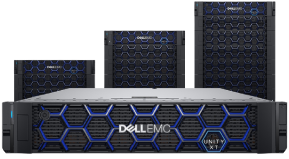
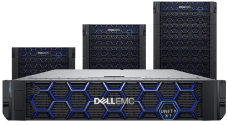
fix: fix header

diff --git a/app/css/style.min.css b/app/css/style.min.css
@@ -1,1 +1,1 @@
-html{box-sizing:border-box}*,*::after,*::before{box-sizing:inherit}ul[class],ol[class]{padding:0}body,h1,h2,h3,h4,h5,h6,p,ul,ol,li,figure,figcaption,blockquote,dl,dd{margin:0}ul[class]{list-style:none;list-style-type:none}img{max-width:100%;display:block}input,button,textarea,select{font:inherit}a{text-decoration:none}body{overflow-x:hidden}@font-face{font-family:"Roboto";src:url(../assets/fonts/Roboto-Regular.ttf)}@font-face{font-family:"Euclid Circular A";src:url(../assets/fonts/Euclid\ Circular\ A\ Regular.ttf)}header{width:100%;height:90px;display:flex;align-items:center;justify-content:space-between;background:#fff}header .logo img{padding:15px 0px 15px 15px}header .navigation{display:flex;align-items:center;justify-content:space-between;gap:30px;padding:22px 15px 22px 0px}header .navigation ul{display:flex;align-items:center;justify-content:space-between;gap:15px;list-style-type:none;padding-left:0px}header .navigation ul .navigation-item{width:46px;height:46px;background:#f9f9f9;border-radius:50%;display:flex;align-items:center;justify-content:center;position:relative}header .navigation ul .navigation-item .navigation-item__count{position:absolute;top:0;right:0;padding:5px 1px;color:#fff;font:normal 400 50px "Roboto",sans-serif;font-weight:700;font-size:12px;line-height:14px;width:16px;height:16px;background:#48a4eb;border-radius:50%;display:flex;align-items:center;justify-content:center}.menu .hamburger{display:block}.menu .hamburger.active .bar:nth-child(2){opacity:0}.menu .hamburger.active .bar:nth-child(1){-webkit-transform:translateY(8px) rotate(45deg);-ms-transform:translateY(8px) rotate(45deg);transform:translateY(8px) rotate(45deg)}.menu .hamburger.active .bar:nth-child(3){-webkit-transform:translateY(-12px) rotate(-45deg);-ms-transform:translateY(-12px) rotate(-45deg);transform:translateY(-12px) rotate(-45deg)}.menu .nav-menu{position:fixed;left:-100%;top:90px;gap:0;display:flex;align-items:start;justify-content:center;padding:56px 0px 64px 38px;-webkit-box-orient:vertical;-webkit-box-direction:normal;-ms-flex-direction:column;flex-direction:column;background:#fff;width:100%;text-align:center;-webkit-transition:.3s;-o-transition:.3s;transition:.3s;font:normal 400 50px "Roboto",sans-serif;font-size:15px;line-height:18px;text-transform:uppercase}.menu .nav-item{margin:16px 0}.menu .nav-item a{color:#292d32}.menu .nav-menu.active{left:0}.menu .bar{display:block;width:18px;height:0px;margin:8px auto;-webkit-transition:all .3s ease;-o-transition:all .3s ease;transition:all .3s ease;border:1.5px solid #292d32}.main{background-color:#f9f9f9;position:relative}.main .dell-top{position:absolute;top:18px;left:32px}.main .main-header{padding-top:80px;padding-left:15px;display:flex;align-items:start;justify-content:center;-webkit-box-orient:vertical;-webkit-box-direction:normal;-ms-flex-direction:column;flex-direction:column;gap:28px;background:#f2f2f2}.main .main-header .main-header_new{font:normal 400 50px "Roboto",sans-serif;font-weight:300;font-size:15px;line-height:133.69%;color:#838383}.main .main-header .main-header_title{font:normal 400 50px "Roboto",sans-serif;font-weight:400;font-size:30px;line-height:35px;color:#292d32}.main .main-swipe{padding:10px 25px 10px 23px;background:#f2f2f2}.main .main-profit{background-color:#f9f9f9;background:url(../assets/img/main/backstageLaptops.png) no-repeat right;height:196px}.main .main-profit .main-profit_text{padding:59px 0px 59px 15px;font:normal 400 50px "Roboto",sans-serif;font-size:20px;line-height:130%;color:#292d32;max-width:136px}.main-description{display:flex;align-items:center;justify-content:center;gap:15px}.main-description .main-description_button{display:flex;align-items:center;justify-content:center;width:45px;height:45px;background:#33a9ff;border:none;border-radius:50%}.main-description .main-description_text{font:normal 400 50px "Roboto",sans-serif;font-size:15px;line-height:30px;color:#292d32}.main-description .black{background:#292d32;width:32.18px;height:32.18px;margin:12px}.float{position:relative;top:-15px;right:20px;width:60.18px;height:60.18px;border:none;border-radius:50%;background:#fff}.catalog{display:flex;align-items:center;justify-content:center;-webkit-box-orient:vertical;-webkit-box-direction:normal;-ms-flex-direction:column;flex-direction:column;gap:20px;margin-bottom:120.1px}.catalog .catalog-header{margin:120px 25px 40px 15px;display:flex;align-items:start;justify-content:center;-webkit-box-orient:vertical;-webkit-box-direction:normal;-ms-flex-direction:column;flex-direction:column}.catalog .catalog-header .catalog-header_title{font:normal 400 50px "Roboto",sans-serif;max-width:249px;font-size:30px;line-height:35px;color:#292d32;margin-bottom:20px}.catalog .catalog-header .catalog-header_text{font:normal 400 18px "Roboto",sans-serif;font-weight:300;font-size:14.5px;line-height:150%;color:#838383;width:100%;margin-bottom:30px}.catalog .catalog-item{background:#eee;border-radius:10px;width:345px;height:auto;min-height:290.9px;display:flex;align-items:start;justify-content:space-between;-webkit-box-orient:vertical;-webkit-box-direction:normal;-ms-flex-direction:column;flex-direction:column;padding:15px 22px 20px 21px}.catalog .catalog-item .catalog-item_img{display:flex;align-items:start;justify-content:space-between;position:relative}.catalog .catalog-item .catalog-item_img .catalog-item_number{position:absolute;top:0;left:0;font:normal 400 50px "Roboto",sans-serif;font-weight:100;font-size:20px;line-height:150%;color:#292d32}.catalog .catalog-item .catalog-item_description{display:flex;align-items:start;justify-content:center;-webkit-box-orient:vertical;-webkit-box-direction:normal;-ms-flex-direction:column;flex-direction:column}.catalog .catalog-item .catalog-item_description .catalog-item_count{font:normal 400 18px "Roboto",sans-serif;font-weight:300;font-size:15px;line-height:133.69%;color:#838383}.catalog .catalog-item .catalog-item_description .catalog-item_title{font:normal 400 50px "Roboto",sans-serif;font-size:20px;line-height:150%;color:#292d32}.asc{background:#f2f2f2;padding-bottom:120px}.asc .asc-header{display:flex;align-items:start;justify-content:center;-webkit-box-orient:vertical;-webkit-box-direction:normal;-ms-flex-direction:column;flex-direction:column;padding:101px 0px 0px 15px;position:relative}.asc .asc-header .asc-button{padding-bottom:35px}.asc .asc-header .asc-header_title{font:normal 400 50px "Roboto",sans-serif;font-size:30px;line-height:50px;color:#292d32;padding-bottom:20px}.asc .asc-header .asc-header_text{font:normal 400 18px "Roboto",sans-serif;font-size:15px;line-height:150%;color:#838383;padding-bottom:30px;max-width:336px}.asc .asc-header .asc-header_laptop{position:absolute;bottom:0;right:0}.asc .asc-header .asc-header_quality{padding-top:35px;z-index:-2}.asc .asc-list{padding-top:23px;display:flex;align-items:center;justify-content:center;-webkit-box-orient:vertical;-webkit-box-direction:normal;-ms-flex-direction:column;flex-direction:column;gap:20px}.asc .asc-list .asc-item{background:#292d32;min-width:345px;max-width:345px;border-radius:10px;position:relative}.asc .asc-list .asc-item .asc-item_vector{position:absolute;top:0;right:0}.asc .asc-list .asc-item .asc-item_logo{background:#343a41;border-radius:9px;width:50px;height:50px;display:flex;align-items:center;justify-content:center;margin:15px}.asc .asc-list .asc-item .asc-item_description{padding-left:15px;padding-bottom:15px;display:flex;align-items:start;justify-content:center;-webkit-box-orient:vertical;-webkit-box-direction:normal;-ms-flex-direction:column;flex-direction:column;gap:10px}.asc .asc-list .asc-item .asc-item_description .asc-item_title{font:normal 400 18px "Euclid Circular A",sans-serif;line-height:23px;color:#fff;max-width:296px}.asc .asc-list .asc-item .asc-item_description .asc-item_text{font:normal 400 18px "Euclid Circular A",sans-serif;font-weight:300;font-size:16px;line-height:20px;color:#b7b7b7;max-width:319px;max-height:60px}.news{background:#f5f5f5;padding-bottom:120px}.news .news-header{padding:120px 25px 40px 15px;display:flex;align-items:start;justify-content:center;-webkit-box-orient:vertical;-webkit-box-direction:normal;-ms-flex-direction:column;flex-direction:column}.news .news-header .news-header_title{font:normal 400 50px "Roboto",sans-serif;font-size:30px;line-height:35px;color:#292d32;margin-bottom:20px}.news .news-header .news-header_text{font:normal 400 18px "Roboto",sans-serif;font-weight:300;font-size:14.5px;line-height:150%;color:#838383;width:100%;margin-bottom:30px}.news .news-list{display:flex;align-items:center;justify-content:center;-webkit-box-orient:vertical;-webkit-box-direction:normal;-ms-flex-direction:column;flex-direction:column;gap:20px}.news .news-list .news-item{position:relative;width:324px;height:293px;border-top-left-radius:50px;border-bottom-right-radius:50px}.news .news-list .news-item .news-date{position:absolute;right:-21px;top:53px;padding:21.62px .21px 16.02px .21px;min-width:39.2px;min-height:76.06px;text-align:center;background:#fff;-webkit-box-shadow:6px 6px 30px rgba(0,0,0,.06);box-shadow:6px 6px 30px rgba(0,0,0,.06);border-radius:15px}.news .news-list .news-item .news-date .news-date_num{font:normal 400 50px "Roboto",sans-serif;color:#292d32;font-weight:900;font-size:18px;line-height:13px}.news .news-list .news-item .news-date .news-date_text{font:normal 400 50px "Roboto",sans-serif;color:#292d32;font-weight:100;font-size:18px;line-height:13px}.news .news-list .news-item .news-item_bottom{position:absolute;bottom:0;right:0;border-bottom-right-radius:48px;display:flex;align-items:start;justify-content:center;height:143px;width:100%;background:#fff}.news .news-list .news-item .news-item-data{height:143px}.news .news-list .news-item .news-item_title{font:normal 400 50px "Roboto",sans-serif;color:#292d32;font-weight:700;font-size:25px;line-height:100%;margin:21px 0px 10px 20px}.news .news-list .news-item .news-item_text{font:normal 400 50px "Roboto",sans-serif;color:#292d32;font-weight:400;font-size:14px;line-height:150%;max-width:251px;margin-left:20px}.news .news-list .first-news{background:url(../assets/img/news/news1.png) no-repeat left top;float:bottom}.news .news-list .second-news{background:url(../assets/img/news/news4.png) no-repeat left top}.news .news-list .third-news{background:url(../assets/img/news/news5.png) no-repeat left top}.contacts{background:#f9f9f9;position:relative}.contacts .contacts-header{padding:101px 123px 40px 30px;display:flex;align-items:start;justify-content:center;-webkit-box-orient:vertical;-webkit-box-direction:normal;-ms-flex-direction:column;flex-direction:column}.contacts .contacts-header .contacts-header_title{font:normal 400 50px "Roboto",sans-serif;font-size:30px;line-height:35px;color:#292d32;margin-bottom:20px}.contacts .contacts-header .contacts-header_text{font:normal 400 18px "Roboto",sans-serif;font-weight:300;font-size:14.5px;line-height:150%;color:#838383;width:100%}.contacts .contacts-list{display:flex;align-items:start;justify-content:center;-webkit-box-orient:vertical;-webkit-box-direction:normal;-ms-flex-direction:column;flex-direction:column;gap:20px;margin-left:30px}.contacts .contacts-list .contacts-item .contacts-item_img{display:flex;align-items:center;justify-content:start;gap:8.38px}.contacts .contacts-list .contacts-item .contacts-item_img img{width:18.73px;height:18.73px}.contacts .contacts-list .contacts-item .contacts-item_title{font:normal 400 18px "Roboto",sans-serif;font-size:15px;line-height:133.69%;color:#838383}.contacts .contacts-list .contacts-item .contacts-item_text{max-width:255px;font:normal 400 18px "Roboto",sans-serif;line-height:150%;color:#292d32;margin-left:26.64px}.contacts .contacts-links{display:flex;align-items:start;justify-content:start;-webkit-box-orient:horizontal;-webkit-box-direction:normal;-ms-flex-direction:row;flex-direction:row;gap:12.68px;padding:30.48px 0px 59.84px 30px}.contacts .contacts-links img{width:26.16px;height:26.16px}.contacts .iphone{position:absolute;right:21.71px;bottom:-46.24px}.form{background:#292d32;padding:60px 26px 60px 30px;display:flex;align-items:start;justify-content:center;-webkit-box-orient:vertical;-webkit-box-direction:normal;-ms-flex-direction:column;flex-direction:column}.form .white{color:#fff}.form .form-title{font:normal 400 50px "Roboto",sans-serif;font-size:30px;line-height:35px;padding-bottom:15px}.form .form-text{font:normal 400 50px "Roboto",sans-serif;font-size:15px;line-height:150%;padding-bottom:40px}.form .form-body{width:100%;display:flex;align-items:start;justify-content:center;-webkit-box-orient:vertical;-webkit-box-direction:normal;-ms-flex-direction:column;flex-direction:column;gap:30px;padding-bottom:30px}.form .form-input{width:315px;height:50px;position:relative}.form .form-input .input__field{width:100%;height:100%;background:rgba(0,0,0,0);border:1px solid #8e9092;border-radius:10px;font:normal 400 18px "Roboto",sans-serif;font-weight:300;font-size:15px;line-height:133.69%;color:#f2f2f2;padding-left:10px}.form .form-input .input__label{position:absolute;top:-10px;left:23px;font:normal 400 18px "Roboto",sans-serif;font-weight:300;font-size:15px;line-height:133.69%;color:#f2f2f2;background:#292d32}.form .comment{height:80px}footer{background:#f2f2f2;position:relative}footer .dell-background{position:absolute;bottom:15.67px;right:0}footer hr{max-width:345px}.footer-links{padding-top:30.55px;display:flex;align-items:start;justify-content:center;-webkit-box-orient:vertical;-webkit-box-direction:normal;-ms-flex-direction:column;flex-direction:column;gap:28.16px}.footer-links .footer-logo{width:100%;display:flex;align-items:center;justify-content:center}.footer-links .footer-links_bar{display:flex;align-items:start;justify-content:space-between;-ms-flex-wrap:wrap;flex-wrap:wrap;-webkit-box-orient:horizontal;-webkit-box-direction:normal;-ms-flex-direction:row;flex-direction:row;padding:0px 37px 30px 15px}.footer-links .footer-bar .footer-bar_title{font:normal 400 50px "Roboto",sans-serif;font-size:18px;line-height:21px;color:#292d32}.footer-links .footer-bar .footer-bar_list{display:flex;align-items:start;justify-content:center;-webkit-box-orient:vertical;-webkit-box-direction:normal;-ms-flex-direction:column;flex-direction:column;-ms-flex-wrap:wrap;flex-wrap:wrap;font:normal 400 18px "Roboto",sans-serif;font-weight:300;font-size:15px;line-height:18px;padding-top:15px}.footer-links .footer-bar .footer-bar_list .footer-bar_item{padding-bottom:10px;max-width:140px}.footer-links .footer-bar .footer-bar_list .footer-bar_item a{color:#292d32}.footer-links .bottom{min-width:300px;max-height:109px}.footer-contacts{text-align:left;padding-top:31px;padding-left:16px}.footer-contacts .footer-contacts_list{display:flex;align-items:start;justify-content:center;-webkit-box-orient:vertical;-webkit-box-direction:normal;-ms-flex-direction:column;flex-direction:column;gap:20px}.footer-contacts .footer-contacts_list .footer-contacts_item .footer-item_title{font:normal 400 18px "Roboto",sans-serif;font-size:15px;line-height:133.69%;color:#838383}.footer-contacts .footer-contacts_list .footer-contacts_item .footer-item_text{font:normal 400 18px "Roboto",sans-serif;font-size:15px;line-height:150%;color:#292d32}.footer-contacts .footer-contacts_links{display:flex;align-items:start;justify-content:start;-webkit-box-orient:horizontal;-webkit-box-direction:normal;-ms-flex-direction:row;flex-direction:row;gap:29.82px;padding:30px 0px 29.82px 16px}
+html{box-sizing:border-box}*,*::after,*::before{box-sizing:inherit}ul[class],ol[class]{padding:0}body,h1,h2,h3,h4,h5,h6,p,ul,ol,li,figure,figcaption,blockquote,dl,dd{margin:0}ul[class]{list-style:none;list-style-type:none}img{max-width:100%;display:block}input,button,textarea,select{font:inherit}a{text-decoration:none}body{overflow-x:hidden}@font-face{font-family:"Roboto";src:url(../assets/fonts/Roboto-Regular.ttf)}@font-face{font-family:"Euclid Circular A";src:url(../assets/fonts/Euclid\ Circular\ A\ Regular.ttf)}header{width:100%;height:90px;display:flex;align-items:center;justify-content:space-between;background:#fff}header .logo{padding:15px 0px 15px 15px}header .logo img{width:60px;height:60px}header .navigation{display:flex;align-items:center;justify-content:space-between;gap:30px;padding:22px 15px 22px 0px}header .navigation ul{display:flex;align-items:center;justify-content:space-between;gap:15px;list-style-type:none;padding-left:0px}header .navigation ul .navigation-item{width:46px;height:46px;background:#f9f9f9;border-radius:50%;display:flex;align-items:center;justify-content:center;position:relative}header .navigation ul .navigation-item .navigation-item__count{position:absolute;top:0;right:0;padding:5px 1px;color:#fff;font:normal 400 50px "Roboto",sans-serif;font-weight:700;font-size:12px;line-height:14px;width:16px;height:16px;background:#48a4eb;border-radius:50%;display:flex;align-items:center;justify-content:center}.menu .hamburger{display:block}.menu .hamburger.active .bar:nth-child(2){opacity:0}.menu .hamburger.active .bar:nth-child(1){-webkit-transform:translateY(8px) rotate(45deg);-ms-transform:translateY(8px) rotate(45deg);transform:translateY(8px) rotate(45deg)}.menu .hamburger.active .bar:nth-child(3){-webkit-transform:translateY(-12px) rotate(-45deg);-ms-transform:translateY(-12px) rotate(-45deg);transform:translateY(-12px) rotate(-45deg)}.menu .nav-menu{position:fixed;left:-100%;top:90px;gap:0;display:flex;align-items:start;justify-content:center;padding:56px 0px 64px 38px;-webkit-box-orient:vertical;-webkit-box-direction:normal;-ms-flex-direction:column;flex-direction:column;background:#fff;width:100%;text-align:center;-webkit-transition:.3s;-o-transition:.3s;transition:.3s;font:normal 400 50px "Roboto",sans-serif;font-size:15px;line-height:18px;text-transform:uppercase}.menu .nav-item{margin:16px 0}.menu .nav-item a{color:#292d32}.menu .nav-menu.active{left:0}.menu .bar{display:block;width:18px;height:0px;margin:8px auto;-webkit-transition:all .3s ease;-o-transition:all .3s ease;transition:all .3s ease;border:1.5px solid #292d32}.main{background-color:#f9f9f9;position:relative}.main .dell-top{position:absolute;top:18px;left:32px;max-width:293px;max-height:77px}.main .main-header{padding-top:80px;padding-left:15px;display:flex;align-items:start;justify-content:center;-webkit-box-orient:vertical;-webkit-box-direction:normal;-ms-flex-direction:column;flex-direction:column;gap:28px;background:#f2f2f2}.main .main-header .main-header_new{font:normal 400 50px "Roboto",sans-serif;font-weight:300;font-size:15px;line-height:133.69%;color:#838383}.main .main-header .main-header_title{font:normal 400 50px "Roboto",sans-serif;font-weight:400;font-size:30px;line-height:35px;color:#292d32;padding-top:5px}.main .main-swipe{padding:10px 25px 10px 23px;background:#f2f2f2}.main .main-profit{background-color:#f9f9f9;background:url(../assets/img/main/backstageLaptops.png) no-repeat right;height:196px}.main .main-profit .main-profit_text{padding:59px 0px 59px 15px;font:normal 400 50px "Roboto",sans-serif;font-size:20px;line-height:130%;color:#292d32;max-width:136px}.main-description{display:flex;align-items:center;justify-content:center;gap:15px}.main-description .main-description_button{display:flex;align-items:center;justify-content:center;width:45px;height:45px;background:#33a9ff;border:none;border-radius:50%}.main-description .main-description_text{font:normal 400 50px "Roboto",sans-serif;font-size:15px;line-height:30px;color:#292d32}.main-description .black{background:#292d32;width:32.18px;height:32.18px;margin:12px}.float{position:relative;top:-15px;right:20px;width:60.18px;height:60.18px;border:none;border-radius:50%;background:#fff}.catalog{display:flex;align-items:center;justify-content:center;-webkit-box-orient:vertical;-webkit-box-direction:normal;-ms-flex-direction:column;flex-direction:column;gap:20px;margin-bottom:120.1px}.catalog .catalog-header{margin:120px 25px 30px 15px;display:flex;align-items:start;justify-content:center;-webkit-box-orient:vertical;-webkit-box-direction:normal;-ms-flex-direction:column;flex-direction:column}.catalog .catalog-header .catalog-header_title{font:normal 400 50px "Roboto",sans-serif;max-width:249px;font-size:30px;line-height:35px;color:#292d32;margin-bottom:20px}.catalog .catalog-header .catalog-header_text{font:normal 400 18px "Roboto",sans-serif;font-weight:300;font-size:14.5px;line-height:150%;color:#838383;width:100%;margin-bottom:30px}.catalog .catalog-item{background:#eee;border-radius:10px;width:345px;min-height:275px;display:flex;align-items:start;justify-content:space-around;-webkit-box-orient:vertical;-webkit-box-direction:normal;-ms-flex-direction:column;flex-direction:column;padding:15px 22px 20px 21px}.catalog .catalog-item .catalog-item_img{position:relative}.catalog .catalog-item .catalog-item_img .catalog-item_number{position:absolute;top:0;left:0;font:normal 400 50px "Roboto",sans-serif;font-weight:100;font-size:20px;line-height:150%;color:#292d32}.catalog .catalog-item .catalog-item_img img{position:relative;top:0;right:0}.catalog .catalog-item .catalog-item_description{display:flex;align-items:start;justify-content:center;-webkit-box-orient:vertical;-webkit-box-direction:normal;-ms-flex-direction:column;flex-direction:column}.catalog .catalog-item .catalog-item_description .catalog-item_count{font:normal 400 18px "Roboto",sans-serif;font-weight:300;font-size:15px;line-height:133.69%;color:#838383}.catalog .catalog-item .catalog-item_description .catalog-item_title{font:normal 400 50px "Roboto",sans-serif;font-size:20px;line-height:150%;color:#292d32}.asc{background:#f2f2f2;padding-bottom:120px}.asc .asc-header{display:flex;align-items:start;justify-content:center;-webkit-box-orient:vertical;-webkit-box-direction:normal;-ms-flex-direction:column;flex-direction:column;padding:101px 0px 0px 15px;position:relative}.asc .asc-header .asc-button{padding-bottom:35px}.asc .asc-header .asc-header_title{font:normal 400 50px "Roboto",sans-serif;font-size:30px;line-height:50px;color:#292d32;padding-bottom:20px}.asc .asc-header .asc-header_text{font:normal 400 18px "Roboto",sans-serif;font-size:15px;line-height:150%;color:#838383;padding-bottom:30px;max-width:336px}.asc .asc-header .asc-header_laptop{position:absolute;bottom:0;right:0}.asc .asc-header .asc-header_quality{padding-top:35px;z-index:-2}.asc .asc-list{padding-top:23px;display:flex;align-items:center;justify-content:center;-webkit-box-orient:vertical;-webkit-box-direction:normal;-ms-flex-direction:column;flex-direction:column;gap:20px}.asc .asc-list .asc-item{background:#292d32;min-width:345px;max-width:345px;border-radius:10px;position:relative}.asc .asc-list .asc-item .asc-item_vector{position:absolute;top:0;right:0}.asc .asc-list .asc-item .asc-item_logo{background:#343a41;border-radius:9px;width:50px;height:50px;display:flex;align-items:center;justify-content:center;margin:15px}.asc .asc-list .asc-item .asc-item_description{padding-left:15px;padding-bottom:15px;display:flex;align-items:start;justify-content:center;-webkit-box-orient:vertical;-webkit-box-direction:normal;-ms-flex-direction:column;flex-direction:column;gap:10px}.asc .asc-list .asc-item .asc-item_description .asc-item_title{font:normal 400 18px "Euclid Circular A",sans-serif;line-height:23px;color:#fff;max-width:296px}.asc .asc-list .asc-item .asc-item_description .asc-item_text{font:normal 400 18px "Euclid Circular A",sans-serif;font-weight:300;font-size:16px;line-height:20px;color:#b7b7b7;max-width:319px;max-height:60px}.news{background:#f5f5f5;padding-bottom:120px}.news .news-header{padding:120px 25px 40px 15px;display:flex;align-items:start;justify-content:center;-webkit-box-orient:vertical;-webkit-box-direction:normal;-ms-flex-direction:column;flex-direction:column}.news .news-header .news-header_title{font:normal 400 50px "Roboto",sans-serif;font-size:30px;line-height:35px;color:#292d32;margin-bottom:20px}.news .news-header .news-header_text{font:normal 400 18px "Roboto",sans-serif;font-weight:300;font-size:14.5px;line-height:150%;color:#838383;width:100%;margin-bottom:30px}.news .news-list{display:flex;align-items:center;justify-content:center;-webkit-box-orient:vertical;-webkit-box-direction:normal;-ms-flex-direction:column;flex-direction:column;gap:20px}.news .news-list .news-item{position:relative;width:324px;height:293px;border-top-left-radius:50px;border-bottom-right-radius:50px}.news .news-list .news-item .news-date{position:absolute;right:-21px;top:53px;padding:21.62px .21px 16.02px .21px;min-width:39.2px;min-height:76.06px;text-align:center;background:#fff;-webkit-box-shadow:6px 6px 30px rgba(0,0,0,.06);box-shadow:6px 6px 30px rgba(0,0,0,.06);border-radius:15px}.news .news-list .news-item .news-date .news-date_num{font:normal 400 50px "Roboto",sans-serif;color:#292d32;font-weight:900;font-size:18px;line-height:13px}.news .news-list .news-item .news-date .news-date_text{font:normal 400 50px "Roboto",sans-serif;color:#292d32;font-weight:100;font-size:18px;line-height:13px}.news .news-list .news-item .news-item_bottom{position:absolute;bottom:0;right:0;border-bottom-right-radius:48px;display:flex;align-items:start;justify-content:center;height:143px;width:100%;background:#fff}.news .news-list .news-item .news-item-data{height:143px}.news .news-list .news-item .news-item_title{font:normal 400 50px "Roboto",sans-serif;color:#292d32;font-weight:700;font-size:25px;line-height:100%;margin:21px 0px 10px 20px}.news .news-list .news-item .news-item_text{font:normal 400 50px "Roboto",sans-serif;color:#292d32;font-weight:400;font-size:14px;line-height:150%;max-width:251px;margin-left:20px}.news .news-list .first-news{background:url(../assets/img/news/news1.png) no-repeat left top;float:bottom}.news .news-list .second-news{background:url(../assets/img/news/news4.png) no-repeat left top}.news .news-list .third-news{background:url(../assets/img/news/news5.png) no-repeat left top}.contacts{background:#f9f9f9;position:relative}.contacts .contacts-header{padding:101px 123px 40px 30px;display:flex;align-items:start;justify-content:center;-webkit-box-orient:vertical;-webkit-box-direction:normal;-ms-flex-direction:column;flex-direction:column}.contacts .contacts-header .contacts-header_title{font:normal 400 50px "Roboto",sans-serif;font-size:30px;line-height:35px;color:#292d32;margin-bottom:20px}.contacts .contacts-header .contacts-header_text{font:normal 400 18px "Roboto",sans-serif;font-weight:300;font-size:14.5px;line-height:150%;color:#838383;width:100%}.contacts .contacts-list{display:flex;align-items:start;justify-content:center;-webkit-box-orient:vertical;-webkit-box-direction:normal;-ms-flex-direction:column;flex-direction:column;gap:20px;margin-left:30px}.contacts .contacts-list .contacts-item .contacts-item_img{display:flex;align-items:center;justify-content:start;gap:8.38px}.contacts .contacts-list .contacts-item .contacts-item_img img{width:18.73px;height:18.73px}.contacts .contacts-list .contacts-item .contacts-item_title{font:normal 400 18px "Roboto",sans-serif;font-size:15px;line-height:133.69%;color:#838383}.contacts .contacts-list .contacts-item .contacts-item_text{max-width:255px;font:normal 400 18px "Roboto",sans-serif;line-height:150%;color:#292d32;margin-left:26.64px}.contacts .contacts-links{display:flex;align-items:start;justify-content:start;-webkit-box-orient:horizontal;-webkit-box-direction:normal;-ms-flex-direction:row;flex-direction:row;gap:12.68px;padding:30.48px 0px 59.84px 30px}.contacts .contacts-links img{width:26.16px;height:26.16px}.contacts .iphone{position:absolute;right:21.71px;bottom:-46.24px}.form{background:#292d32;padding:60px 26px 60px 30px;display:flex;align-items:start;justify-content:center;-webkit-box-orient:vertical;-webkit-box-direction:normal;-ms-flex-direction:column;flex-direction:column}.form .white{color:#fff}.form .form-title{font:normal 400 50px "Roboto",sans-serif;font-size:30px;line-height:35px;padding-bottom:15px}.form .form-text{font:normal 400 50px "Roboto",sans-serif;font-size:15px;line-height:150%;padding-bottom:40px}.form .form-body{width:100%;display:flex;align-items:start;justify-content:center;-webkit-box-orient:vertical;-webkit-box-direction:normal;-ms-flex-direction:column;flex-direction:column;gap:30px;padding-bottom:30px}.form .form-input{width:315px;height:50px;position:relative}.form .form-input .input__field{width:100%;height:100%;background:rgba(0,0,0,0);border:1px solid #8e9092;border-radius:10px;font:normal 400 18px "Roboto",sans-serif;font-weight:300;font-size:15px;line-height:133.69%;color:#f2f2f2;padding-left:10px}.form .form-input .input__label{position:absolute;top:-10px;left:23px;font:normal 400 18px "Roboto",sans-serif;font-weight:300;font-size:15px;line-height:133.69%;color:#f2f2f2;background:#292d32}.form .comment{height:80px}footer{background:#f2f2f2;position:relative}footer .dell-background{position:absolute;bottom:15.67px;right:0}footer hr{max-width:345px}.footer-links{padding-top:30.55px;display:flex;align-items:start;justify-content:center;-webkit-box-orient:vertical;-webkit-box-direction:normal;-ms-flex-direction:column;flex-direction:column;gap:28.16px}.footer-links .footer-logo{width:100%;display:flex;align-items:center;justify-content:center}.footer-links .footer-links_bar{display:flex;align-items:start;justify-content:space-between;-ms-flex-wrap:wrap;flex-wrap:wrap;-webkit-box-orient:horizontal;-webkit-box-direction:normal;-ms-flex-direction:row;flex-direction:row;padding:0px 37px 30px 15px}.footer-links .footer-bar .footer-bar_title{font:normal 400 50px "Roboto",sans-serif;font-size:18px;line-height:21px;color:#292d32}.footer-links .footer-bar .footer-bar_list{display:flex;align-items:start;justify-content:center;-webkit-box-orient:vertical;-webkit-box-direction:normal;-ms-flex-direction:column;flex-direction:column;-ms-flex-wrap:wrap;flex-wrap:wrap;font:normal 400 18px "Roboto",sans-serif;font-weight:300;font-size:15px;line-height:18px;padding-top:15px}.footer-links .footer-bar .footer-bar_list .footer-bar_item{padding-bottom:10px;max-width:140px}.footer-links .footer-bar .footer-bar_list .footer-bar_item a{color:#292d32}.footer-links .bottom{min-width:300px;max-height:109px}.footer-contacts{text-align:left;padding-top:31px;padding-left:16px}.footer-contacts .footer-contacts_list{display:flex;align-items:start;justify-content:center;-webkit-box-orient:vertical;-webkit-box-direction:normal;-ms-flex-direction:column;flex-direction:column;gap:20px}.footer-contacts .footer-contacts_list .footer-contacts_item .footer-item_title{font:normal 400 18px "Roboto",sans-serif;font-size:15px;line-height:133.69%;color:#838383}.footer-contacts .footer-contacts_list .footer-contacts_item .footer-item_text{font:normal 400 18px "Roboto",sans-serif;font-size:15px;line-height:150%;color:#292d32}.footer-contacts .footer-contacts_links{display:flex;align-items:start;justify-content:start;-webkit-box-orient:horizontal;-webkit-box-direction:normal;-ms-flex-direction:row;flex-direction:row;gap:29.82px;padding:30px 0px 29.82px 16px}

diff --git a/app/index.html b/app/index.html
@@ -101,9 +101,8 @@
                     </svg>
                 </div>
                 <div>
-                    <span class="main-header_new">Новое поступление</span>
-                    <br />
-                    <span class="main-header_title">Лучшие товары <br /> от компании Dell</span>
+                    <p class="main-header_new">Новое поступление</p>
+                    <p class="main-header_title">Лучшие товары <br /> от компании Dell</p>
                 </div>
                 <div class="main-description">
                     <button type="button" class="main-description_button">
@@ -137,7 +136,7 @@
             </aside>
             <article class="catalog-item">
                 <div class="catalog-item_img">
-                    <span class="catalog-item_number">01</span>
+                    <p class="catalog-item_number">01</p>
                     <img src="./assets/img/catalog/laptop.png" alt="laptop">
                 </div>
                 <div class="catalog-item_description">
@@ -147,7 +146,7 @@
             </article>
             <article class="catalog-item">
                 <div class="catalog-item_img">
-                    <span class="catalog-item_number">02</span>
+                    <p class="catalog-item_number">02</p>
                     <img src="./assets/img/catalog/computer.png" alt="computer">
                 </div>
                 <div class="catalog-item_description">
@@ -157,7 +156,7 @@
             </article>
             <article class="catalog-item">
                 <div class="catalog-item_img">
-                    <span class="catalog-item_number">03</span>
+                    <p class="catalog-item_number">03</p>
                     <img src="./assets/img/catalog/servers.png" alt="servers">
                 </div>
                 <div class="catalog-item_description">
@@ -167,7 +166,7 @@
             </article>
             <article class="catalog-item">
                 <div class="catalog-item_img">
-                    <span class="catalog-item_number">04</span>
+                    <p class="catalog-item_number">04</p>
                     <img src="./assets/img/catalog/emc.png" alt="dell emc">
                 </div>
                 <div class="catalog-item_description">
@@ -177,7 +176,7 @@
             </article>
             <article class="catalog-item">
                 <div class="catalog-item_img">
-                    <span class="catalog-item_number">05</span>
+                    <p class="catalog-item_number">05</p>
                     <img src="./assets/img/catalog/repair.png" alt="repair parts">
                 </div>
                 <div class="catalog-item_description">

diff --git a/app/scss/style.scss b/app/scss/style.scss
@@ -10,8 +10,11 @@ header {
     background: #FFFF;
 
     .logo {
+        padding: 15px 0px 15px 15px;
+
         img {
-            padding: 15px 0px 15px 15px;
+            width: 60px;
+            height: 60px;
         }
     }
 
@@ -121,6 +124,8 @@ header {
         position: absolute;
         top: 18px;
         left: 32px;
+        max-width: 293px;
+        max-height: 77px;
     }
 
     .main-header {
@@ -145,6 +150,7 @@ header {
             font-size: 30px;
             line-height: 35px;
             color: $main-color;
+            padding-top: 5px;
         }
     }
 
@@ -197,6 +203,7 @@ header {
     }
 
 }
+
 .float {
     position: relative;
     top: -15px;
@@ -215,7 +222,7 @@ header {
     margin-bottom: 120.1px;
 
     .catalog-header {
-        margin: 120px 25px 40px 15px;
+        margin: 120px 25px 30px 15px;
         @include flex($align: start);
         flex-direction: column;
 
@@ -243,14 +250,12 @@ header {
         background: #EEEEEE;
         border-radius: 10px;
         width: 345px;
-        height: auto;
-        min-height: 290.9px;
-        @include flex($justify: space-between, $align: start);
+        min-height: 275px;
+        @include flex($justify: space-around, $align: start);
         flex-direction: column;
         padding: 15px 22px 20px 21px;
 
         .catalog-item_img {
-            @include flex($justify: space-between, $align: start);
             position: relative;
 
             .catalog-item_number {
@@ -263,7 +268,14 @@ header {
                 line-height: 150%;
                 color: $main-color;
             }
+
+            img {
+                position: relative;
+                top: 0;
+                right: 0;
+            }
         }
+
 
         .catalog-item_description {
             @include flex($align: start);
